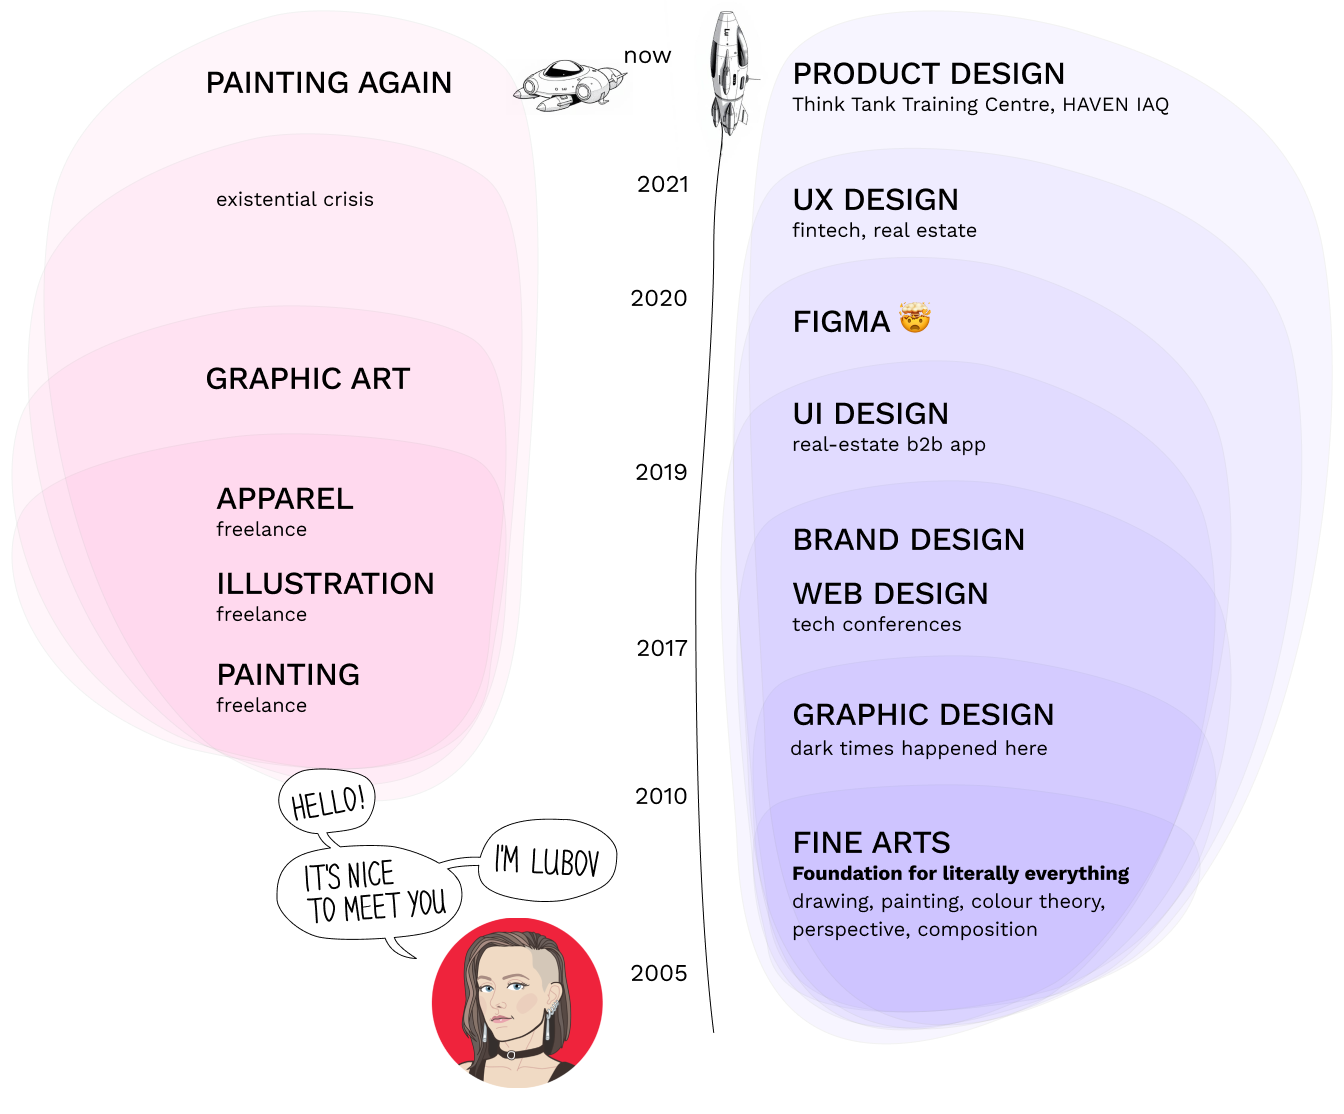
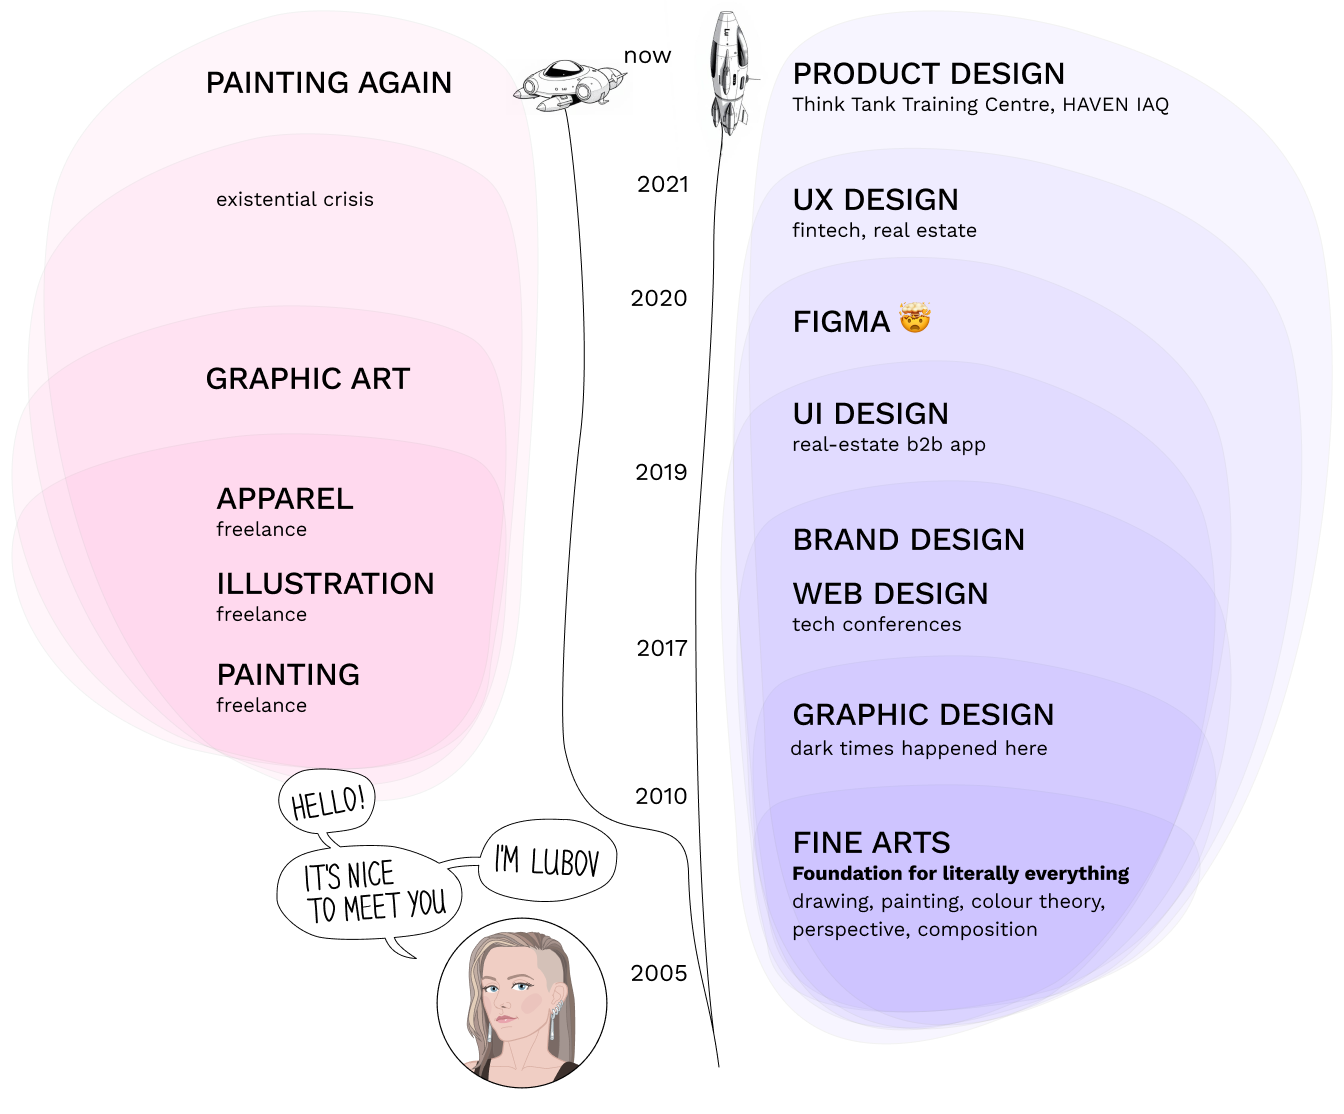
first template

Changed region(s): [[0.3125, 0.8241, 0.4688, 0.9767]]

diff --git a/haven-iaq-templates.html b/haven-iaq-templates.html
@@ -1,0 +1,216 @@
+<!DOCTYPE html>
+<html lang="en">
+	<head>
+		<meta charset="utf-8">
+		<meta http-equiv="X-UA-Compatible" content="IE=edge">
+		<meta name="viewport" content="width=device-width, initial-scale=1, maximum-scale=1">
+		<meta itemprop="url" content="file:///Users/lubovsoltan/Documents/GitHub/Lubov-Soltan-Designer-Portfolio/haven-iaq-templates.html">
+		<meta name="robots" content= "index, follow">
+		<meta name="description" content="Read how I helped to design a fintech savings app - Walletifai, based in Toronto, Canada.">
+		<meta name="author" content="Lubov Soltan">
+		<meta property="article:publisher" content="https://www.facebook.com/LubovSoltan">
+		<meta property="og:site_name" content="Lubov Soltan Senior Product Designer">
+		<meta property="og:title" content="HAVEN IAQ app templates design Lubov Soltan.">
+		<meta property="og:type" content="article">
+		<meta property="og:description" content="HAVEN IAQ app templates design Lubov Soltan.">
+		<meta property="og:url" content="file:///Users/lubovsoltan/Documents/GitHub/Lubov-Soltan-Designer-Portfolio/haven-iaq-templates.html">
+		<meta property="og:image" content="file:///Users/lubovsoltan/Documents/GitHub/Lubov-Soltan-Designer-Portfolio/images/work/haven-iaq-app/HAVEN-app-before-after+devices.png">
+		<!-- Facebook meta -->
+		<meta property="facebook og:title" content="HAVEN IAQ app design project Lubov Soltan">
+		<meta property="facebook og:description" content="HAVEN IAQ app templates design Lubov Soltan.">
+		<meta property="facebook og:image" content="file:///Users/lubovsoltan/Documents/GitHub/Lubov-Soltan-Designer-Portfolio/images/work/haven-iaq-app/HAVEN-app-before-after+devices.png">
+		<meta property="facebook og:url" content="file:///Users/lubovsoltan/Documents/GitHub/Lubov-Soltan-Designer-Portfolio/haven-iaq-templates.html">
+		<!-- favicon -->
+		<link rel="apple-touch-icon" sizes="180x180" href="apple-touch-icon.png">
+		<link rel="icon" type="image/png" sizes="32x32" href="images/favicon-32x32.png">
+		<link rel="icon" type="image/png" sizes="16x16" href="images/favicon-16x16.png">
+		<link rel="manifest" href="site.webmanifest">
+		<title>Lubov Soltan — Senior Product Designer</title>
+		<!-- Bootstrap CSS -->
+		<link rel="stylesheet" href="https://cdn.jsdelivr.net/npm/bootstrap@4.5.3/dist/css/bootstrap.min.css" integrity="sha384-TX8t27EcRE3e/ihU7zmQxVncDAy5uIKz4rEkgIXeMed4M0jlfIDPvg6uqKI2xXr2" crossorigin="anonymous">
+		<link rel="stylesheet" href="https://maxcdn.bootstrapcdn.com/font-awesome/4.7.0/css/font-awesome.min.css">
+		<link rel="stylesheet" href="https://cdnjs.cloudflare.com/ajax/libs/ekko-lightbox/5.3.0/ekko-lightbox.css">
+		<link href="css/style.css" rel="stylesheet">
+	</head>
+
+	<body>
+
+		<header>
+			<!-- Navigation -->
+			<nav class="navbar navbar-expand-lg navbar-light bg-white">
+				<a class="navbar-brand" href="index.html">
+					<img class="on-hover" src="images/navbar-logo-red.svg" alt="Lubov Soltan logo in red">
+					<img class="off-hover" src="images/navbar-logo.svg" alt="Lubov Soltan logo in black">
+				</a>
+				<button class="navbar-toggler" type="button" data-toggle="collapse" data-target="#navbarNav" aria-controls="navbarNav" aria-expanded="false" aria-label="Toggle navigation">
+					<span class="navbar-toggler-icon"></span>
+				</button>
+				<div class="collapse navbar-collapse" id="navbarNav">
+					<ul class="navbar-nav ml-auto">
+					<li class="nav-item">
+						<a class="nav-link" href="index.html">Design <span class="sr-only">(current)</span></a>
+					</li>
+					<li class="nav-item">
+						<a class="nav-link" href="files/lubov-soltan-designer-resume.pdf" target="_blank">Resume</a>
+					</li>
+					</ul>
+				</div>
+				</nav>
+		</header>
+			
+			<section class="hero">
+
+				<div class="container">
+					<div class="row">
+						<div class="col-lg-6 col-xs-12">
+							<div class="demo-text h-100">
+								<div>
+									<h1 style="color: #20BDBC;">EQUIPMENT INSTALL TEMPLATES</h1>
+
+									<h3>Project goals</h3>
+									<p>The Install Templates are designed to streamline the provisioning and setup to target specific persistent air quality issues. of the HAVEN devices and HVAC equipment. it controls with the existing system in the customer home.</p>
+									<p>
+										<a href="https://apps.apple.com/us/app/haven-iaq/id1527338018" target="_blank">HAVEN IAQ APP<i class="fa fa-external-link" style="font-size: small;"></i></a>
+									</p>
+								</div>						
+							</div>
+						</div>
+						<div class="col-lg-6 col-xs-12 text-right">
+							<div class="image">
+								<img src="images/work/haven-aiq-templates/haven-iaq-templates-01.png" alt="HAVEN IAQ install templates" class="img-fluid"/>
+							</div>
+						</div>
+					</div>
+				</div>	
+
+			</section>
+
+			<section class="projects">
+
+<div class="container">
+
+				<div class="row">
+					<div class="col-12" style="padding-bottom: 25px">
+						<hr>
+					</div>
+					<div class="col-lg-3 col-md-4 col-sm-6 col-xs-12">
+						<h3>Duration</h3>
+						<ul>
+						<li>2022-2024 (interspersed among other feature work)</li>
+						</ul>
+					</div>
+					<div class="col-lg-3 col-md-4 col-sm-6 col-xs-12">
+						<h3>Tools</h3>
+						<ul>
+							<li>Figma, Jira, Confluence</li>
+						</ul>
+					</div>
+					<div class="col-lg-5 col-md-8 col-sm-12 col-xs-12">
+						<h3>My role</h3>
+						<ul>
+							<li>UX/UI Design</li>
+							<li>Project lead</li>
+						</ul>
+					</div>
+				</div>
+			</div>
+
+			<div class="container">
+				<div class="row">
+					<div class="col-12" style="padding-bottom: 25px">
+						<hr>
+						<h3>Approach</h3>
+						<p>I lead all 3 design projects from definition to handoff, collaborating with internal stakeholders, PM, end users (HVAC professionals and Home owners). The work was spread over 2022-2024 to fit into the timeline that accomodated the introduction of other crucial features and usability improvements. Templates are tailor-made to address specific persistent issues in the home:</p>
+					</div>
+				</div>
+
+				<div class="row">
+					<div class="col-lg-6 col-md-12 col-sm-12 col-xs-12 align-self-top">
+					<ul>
+						<h3>Demand Control Ventilation #1</h3>
+						<h5>Install purpose</h5> 
+							<li>Improve Humidity, Filtration, Ventilation.</li>
+							<li>Considering the outdoor air quality data (open the damper only if the outdoor conditions are acceptable)</li>
+							<li>In climate zone A (Tropical, warm all year round, humid, high precipitation, average temperature by warm temperatures above 18°C or 64°F)</li>
+						<h5>Equipment used</h5> 
+							<li>HAVEN Monitor (detect air pollutants, humidity, temparature)</li>
+							<li>HAVEN Controller (activate connected HVAC equipment automatically)</li>
+							<li>Ventilating dehumidifier (compressor - to reduce humidity)</li>
+							<li>Outdoor damper (to let in fresh air, but only if clean enough)</li>
+					</ul>
+					</div>
+
+						<div class="col-lg-6 col-md-12 col-sm-12 col-xs-12 align-self-top">
+								<iframe style="border: 1px solid rgba(0, 0, 0, 0.1);" width="100%" height="600" src="https://embed.figma.com/proto/3pxNbL1AHH0qZSbG7RusyI/2025-DEV-_-App-_-All-pages?page-id=&node-id=2683-172606&starting-point-node-id=2683%3A172606&embed-host=share" allowfullscreen></iframe>
+						</div>
+				</div>
+				<div class="row">
+					<div class="col-12">
+						<h3>Equipment activation logic</h3>
+
+						<div class="image">
+							<img src="images/work/haven-aiq-templates/HAVEN-IAQ-AA-1-activation diagram.png" alt="HAVEN IAQ install template 1 activation diagram" class="img-fluid"/>
+							</div>
+						</div>
+				</div>
+
+
+				
+					<div class="row">
+						<div class="col-12" style="padding-bottom: 25px">
+							<h2>TAKEAWAYS</h2>
+							<hr>
+						</div>
+						<div class="col-lg-6 col-md-12 col-sm-12 col-xs-12 align-self-top">
+							<h3>Thinking ahead</h3>
+							<p>When starting the wokr on the first template we knew, that more will be added in the future. That meant creating an overaching concept that would accomodate future additions in design and logic, without the need to retroactively update previous templates.</p> 
+							
+						</div>
+						<div class="col-lg-6 col-md-12 col-sm-12 col-xs-12 align-self-top">		
+							<h3>Team work</h3>
+							<p>The science team had key insights that needed to be translated into human-friendly visuals and language. This required a deep understanding of scientific knowledge and concepts by the design team.</p>	
+						</div>
+						<div class="col-lg-6 col-md-12 col-sm-12 col-xs-12 align-self-top">		
+							<h3>User testing and feedback</h3>	
+							<p>These features are heavily tailored to very specific industry standards and practices, which are used by the top tier professionals in the field of IAQ (indoor air quality) and HVAC. Naturally, getting continuous feedback and field testing results from these professionals was key to succes.</p>		
+						</div>
+					</div>
+		
+				</div>
+
+			</section>
+
+	<footer>
+		<div class="container">
+			<div class="col text-center">
+				<a href="https://www.linkedin.com/in/lubovsoltan/" target="_blank" class="fa fa-linkedin"></a>
+				<a href="mailto:lubovsoltan@gmail.com" target="_blank" class="fa fa-envelope-square"></a>
+				<a href="https://www.instagram.com/artist.lubov/" target="_blank" class="fa fa-instagram"></a>
+				<a href="https://www.behance.net/lubovsoltan" target="_blank" class="fa fa-behance"></a>
+			</div>
+			<div class="col text-center footer-navbar">
+				<a href="index.html">Back to Design</a>
+				<a href="files/lubov-soltan-designer-resume.pdf" target="_blank">Resume (PDF)</a>
+			</div>
+		</div>
+		<div class="footer-copyright text-center">
+		<p>© 2019-2025</p>
+		</div>
+	</footer>
+
+
+		<!-- Bootstrap core JavaScript -->
+		<script src="https://code.jquery.com/jquery-3.5.1.slim.min.js" integrity="sha256-4+XzXVhsDmqanXGHaHvgh1gMQKX40OUvDEBTu8JcmNs=" crossorigin="anonymous"></script>
+		<script src="https://cdn.jsdelivr.net/npm/bootstrap@4.5.3/dist/js/bootstrap.bundle.min.js" integrity="sha384-ho+j7jyWK8fNQe+A12Hb8AhRq26LrZ/JpcUGGOn+Y7RsweNrtN/tE3MoK7ZeZDyx" crossorigin="anonymous"></script>
+		<script src="js/SmoothScroll.js"></script>
+		<script src="vendor/ekko/ekko-lighbox.min.js"></script>
+
+		<script>
+		$(document).on("click", '[data-toggle="lightbox"]', function(event) {
+		event.preventDefault();
+		$(this).ekkoLightbox();
+		});
+		</script>
+		
+	</body>
+</html>

diff --git a/haven-iaq-dashboard.html b/haven-iaq-dashboard.html
@@ -4,7 +4,7 @@
 		<meta charset="utf-8">
 		<meta http-equiv="X-UA-Compatible" content="IE=edge">
 		<meta name="viewport" content="width=device-width, initial-scale=1, maximum-scale=1">
-		<meta itemprop="url" content="file:///Users/lubovsoltan/Documents/GitHub/Lubov-Soltan-Designer-Portfolio/haven-iaq-templates.html">
+		<meta itemprop="url" content="file:///Users/lubovsoltan/Documents/GitHub/Lubov-Soltan-Designer-Portfolio/haven-iaq-dashboard.html">
 		<meta name="robots" content= "index, follow">
 		<meta name="description" content="Read how I helped to design a fintech savings app - Walletifai, based in Toronto, Canada.">
 		<meta name="author" content="Lubov Soltan">
@@ -13,13 +13,13 @@
 		<meta property="og:title" content="HAVEN IAQ app dashboard design Lubov Soltan.">
 		<meta property="og:type" content="article">
 		<meta property="og:description" content="HAVEN IAQ app dashboard design Lubov Soltan.">
-		<meta property="og:url" content="file:///Users/lubovsoltan/Documents/GitHub/Lubov-Soltan-Designer-Portfolio/haven-iaq-templates.html">
+		<meta property="og:url" content="file:///Users/lubovsoltan/Documents/GitHub/Lubov-Soltan-Designer-Portfolio/haven-iaq-dashboard.html">
 		<meta property="og:image" content="file:///Users/lubovsoltan/Documents/GitHub/Lubov-Soltan-Designer-Portfolio/images/work/haven-iaq-app/HAVEN-app-before-after+devices.png">
 		<!-- Facebook meta -->
 		<meta property="facebook og:title" content="HAVEN IAQ app design project Lubov Soltan">
 		<meta property="facebook og:description" content="HAVEN IAQ app dashboard design Lubov Soltan.">
 		<meta property="facebook og:image" content="file:///Users/lubovsoltan/Documents/GitHub/Lubov-Soltan-Designer-Portfolio/images/work/haven-iaq-app/HAVEN-app-before-after+devices.png">
-		<meta property="facebook og:url" content="file:///Users/lubovsoltan/Documents/GitHub/Lubov-Soltan-Designer-Portfolio/haven-iaq-templates.html">
+		<meta property="facebook og:url" content="file:///Users/lubovsoltan/Documents/GitHub/Lubov-Soltan-Designer-Portfolio/haven-iaq-dashboard.html">
 		<!-- favicon -->
 		<link rel="apple-touch-icon" sizes="180x180" href="apple-touch-icon.png">
 		<link rel="icon" type="image/png" sizes="32x32" href="images/favicon-32x32.png">
@@ -66,7 +66,7 @@
 							<div class="demo-text h-100">
 								<div>
 									<h1 style="color: #20BDBC;">HAVEN IAQ DASHBOARD REDESIGN</h1>
-									<h2>UX/UI Design for iOS/Android mobile app</h2>
+									<h2>Research, UX/UI Design, and usability testing for iOS/Android mobile app</h2>
 									<p>HAVEN IAQ is an ecosystem of HAVEN-engineered hardware devices and the software platform that manages whole-home indoor air quality (IAQ), turning the central air system into a smart solution that monitors and controls pollutants like CO2, VOCs, PM2.5, humidity, and temperature. </p>
 								<p>
 										<a href="https://apps.apple.com/us/app/haven-iaq/id1527338018" target="_blank">HAVEN IAQ APP<i class="fa fa-external-link" style="font-size: small;"></i></a>

diff --git a/index.html b/index.html
@@ -61,7 +61,7 @@
 				</div>
 					<div class="col-lg-8 col-sm-12 align-self-center">
 						<h1 style="color: #EF233C"><b>Hi, my name is Lubov (Lyubov')</b></h1>
-						<h2>I am a Senior Product Designer and artist based in Vancouver.</h2>
+						<h3>I am a Senior Product Designer and artist based in Vancouver.</h3>
 						<h5>My experience</h5>
 						<ul>
 							<li>5+ year in UX/UI and Product.</li>
@@ -75,7 +75,7 @@
 						<h5>Latest companies</h5>
 						<ul>
 							<li><a href="https://www.tttc.ca/">Think Tank Training Centre</a>—one of the top VFX schools in the world—contributed to the all-encompassing online learning portal.</li>
-							<li><a href="https://haveniaq.com/">HAVEN IAQ</a>—an innovative indoor air qualitiy automation app with hardware component—Shaped major features, workflows and design system. </li>
+							<li><a href="https://haveniaq.com/">HAVEN IAQ</a>—an innovative indoor air qualitiy automation app with hardware component—shaped major features, workflows and design system. </li>
 							<!--<li>Founding member of <a href="https://gocon.ca/">GoCon Canada</a> and <a href="https://clojuredays.org/">Dutch Clojure Days.</a> </li>-->
 						</ul>
 					</div>
@@ -111,6 +111,23 @@
 					<div class="col-lg-6 col-md-9 col-sm-12 col-xs-12 project mx-auto">
 						<div class="project">
 							<div class="project-image">
+								<a href="haven-iaq-templates.html">
+							<img src="images/work/haven-aiq-templates/haven-iaq-templates.png" alt="gocon 2020 logo" class="img-fluid"></a>
+							</video>								
+								</a>
+							</div>
+							<div class="layer2">
+								<a href="haven-iaq-templates.html">
+									<h6 class="project-name"><b>HAVEN IAQ Hardware Install Templates</b></h6>
+									<p class="project-description">UX/UI DESIGN · Indoor Air Quality</p>
+								</a>
+							</div>
+						</div>
+					</div>
+
+					<div class="col-lg-6 col-md-9 col-sm-12 col-xs-12 project mx-auto">
+						<div class="project">
+							<div class="project-image">
 								<a href="haven-iaq-dashboard.html">
 							<img src="images/work/haven-iaq-app/HAVEN-app.png" alt="gocon 2020 logo" class="img-fluid"></a>
 							</video>								
@@ -118,7 +135,7 @@
 							</div>
 							<div class="layer2">
 								<a href="haven-iaq-dashboard.html">
-									<h4 class="project-name"><b>HAVEN IAQ app</b></h4>
+									<h6 class="project-name"><b>HAVEN IAQ App Dashboard Redesign</b></h6>
 									<p class="project-description">UX/UI DESIGN · Indoor Air Quality</p>
 								</a>
 							</div>
